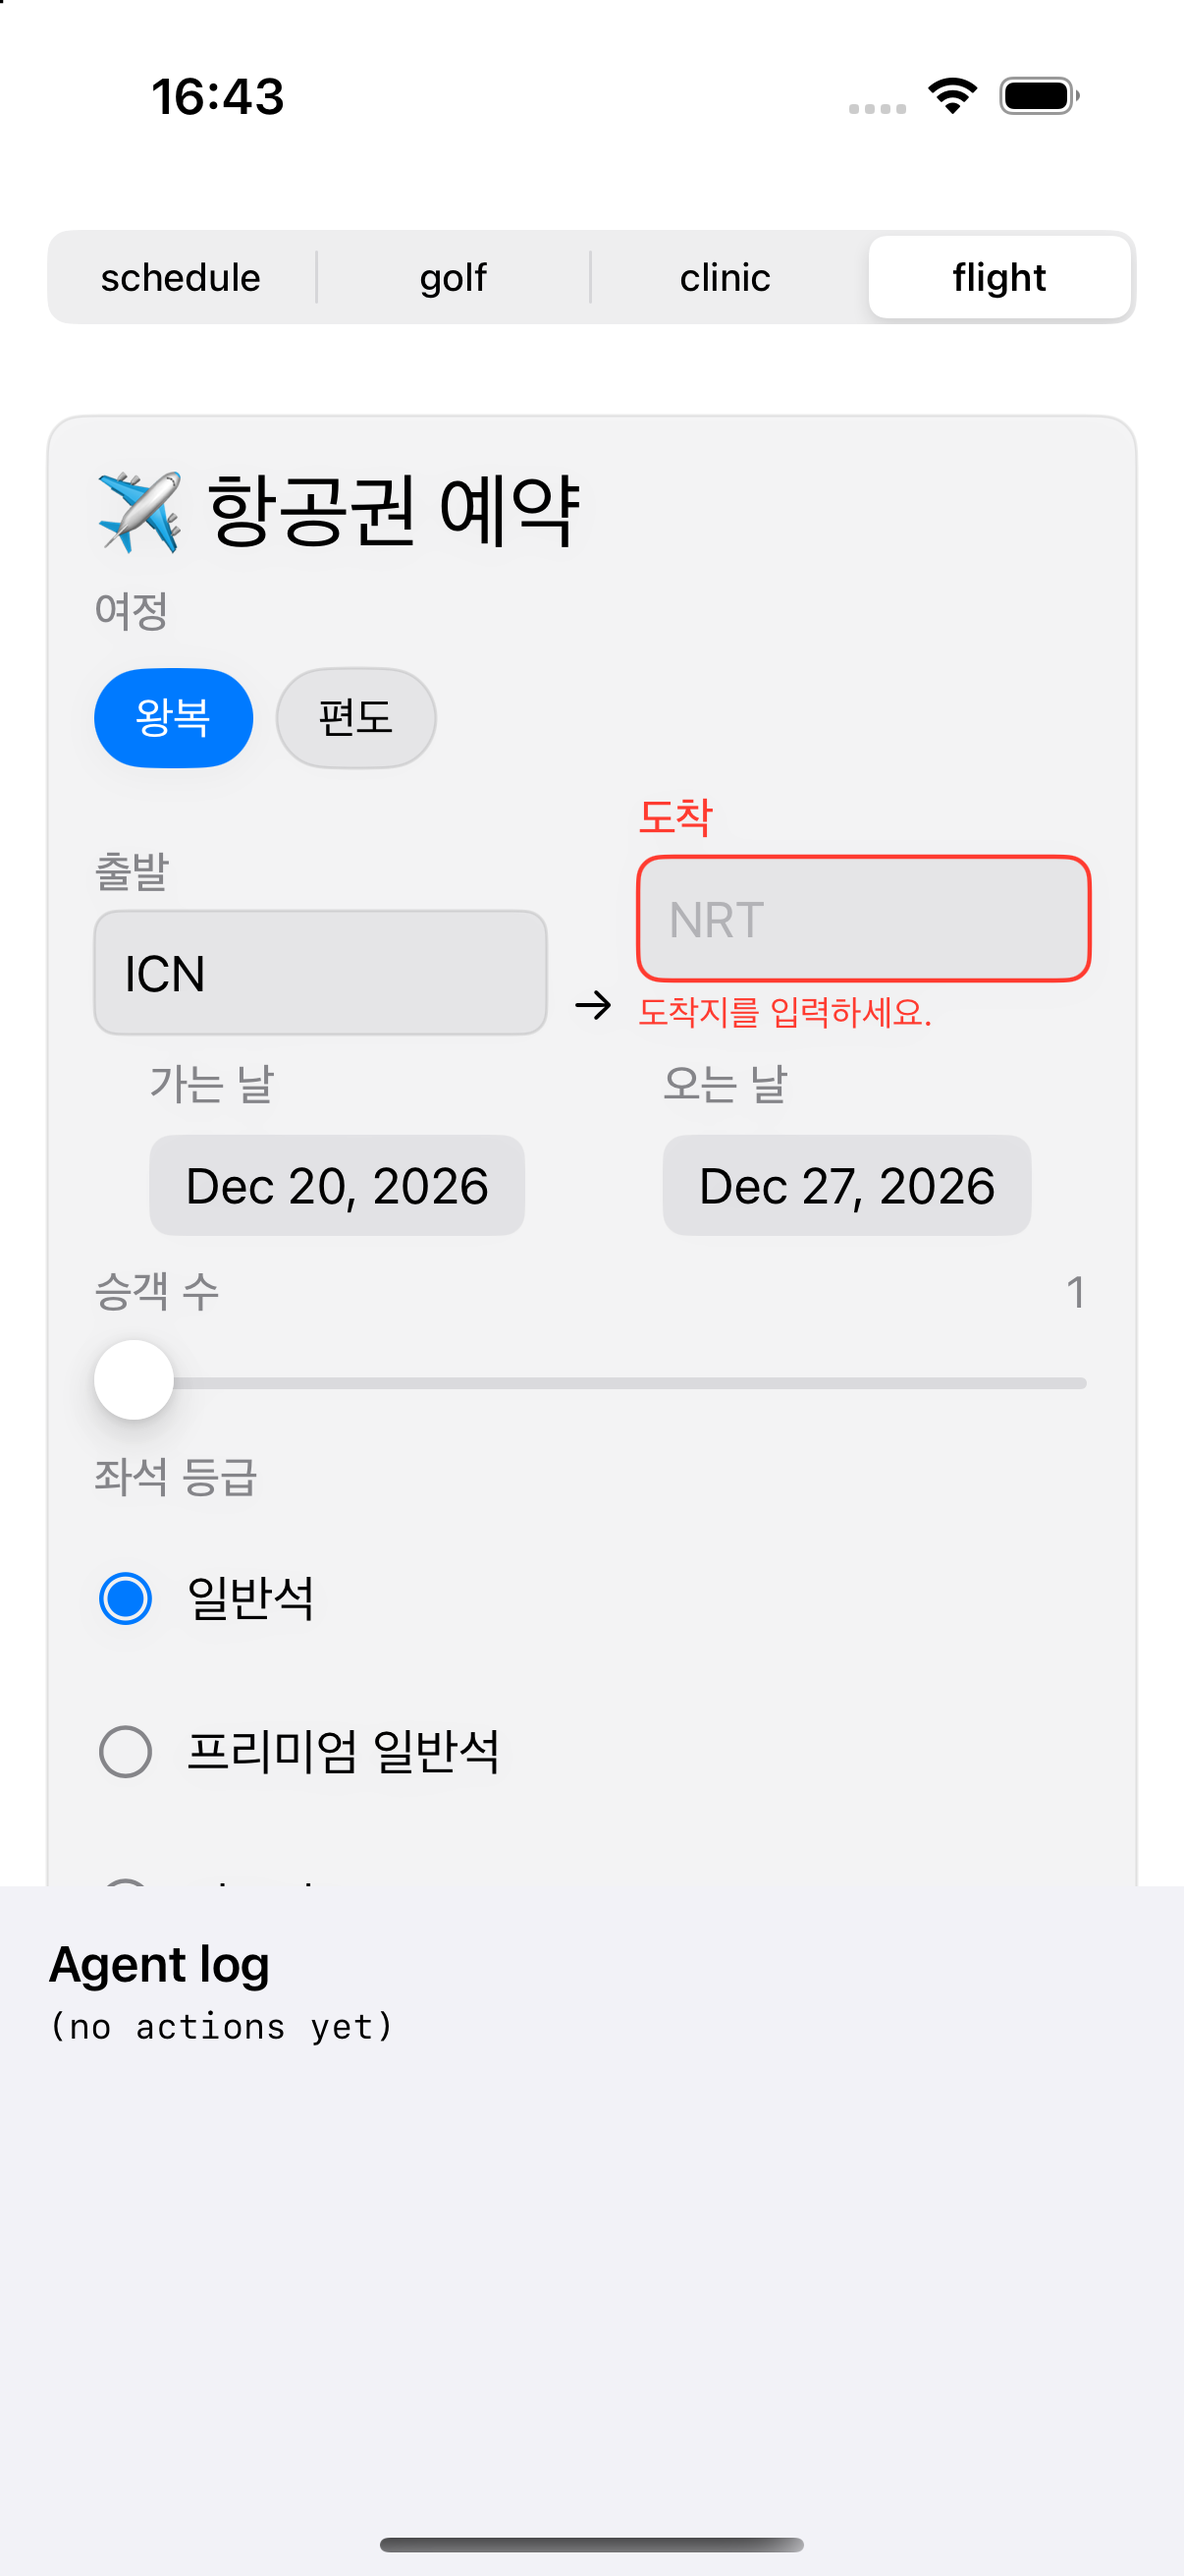
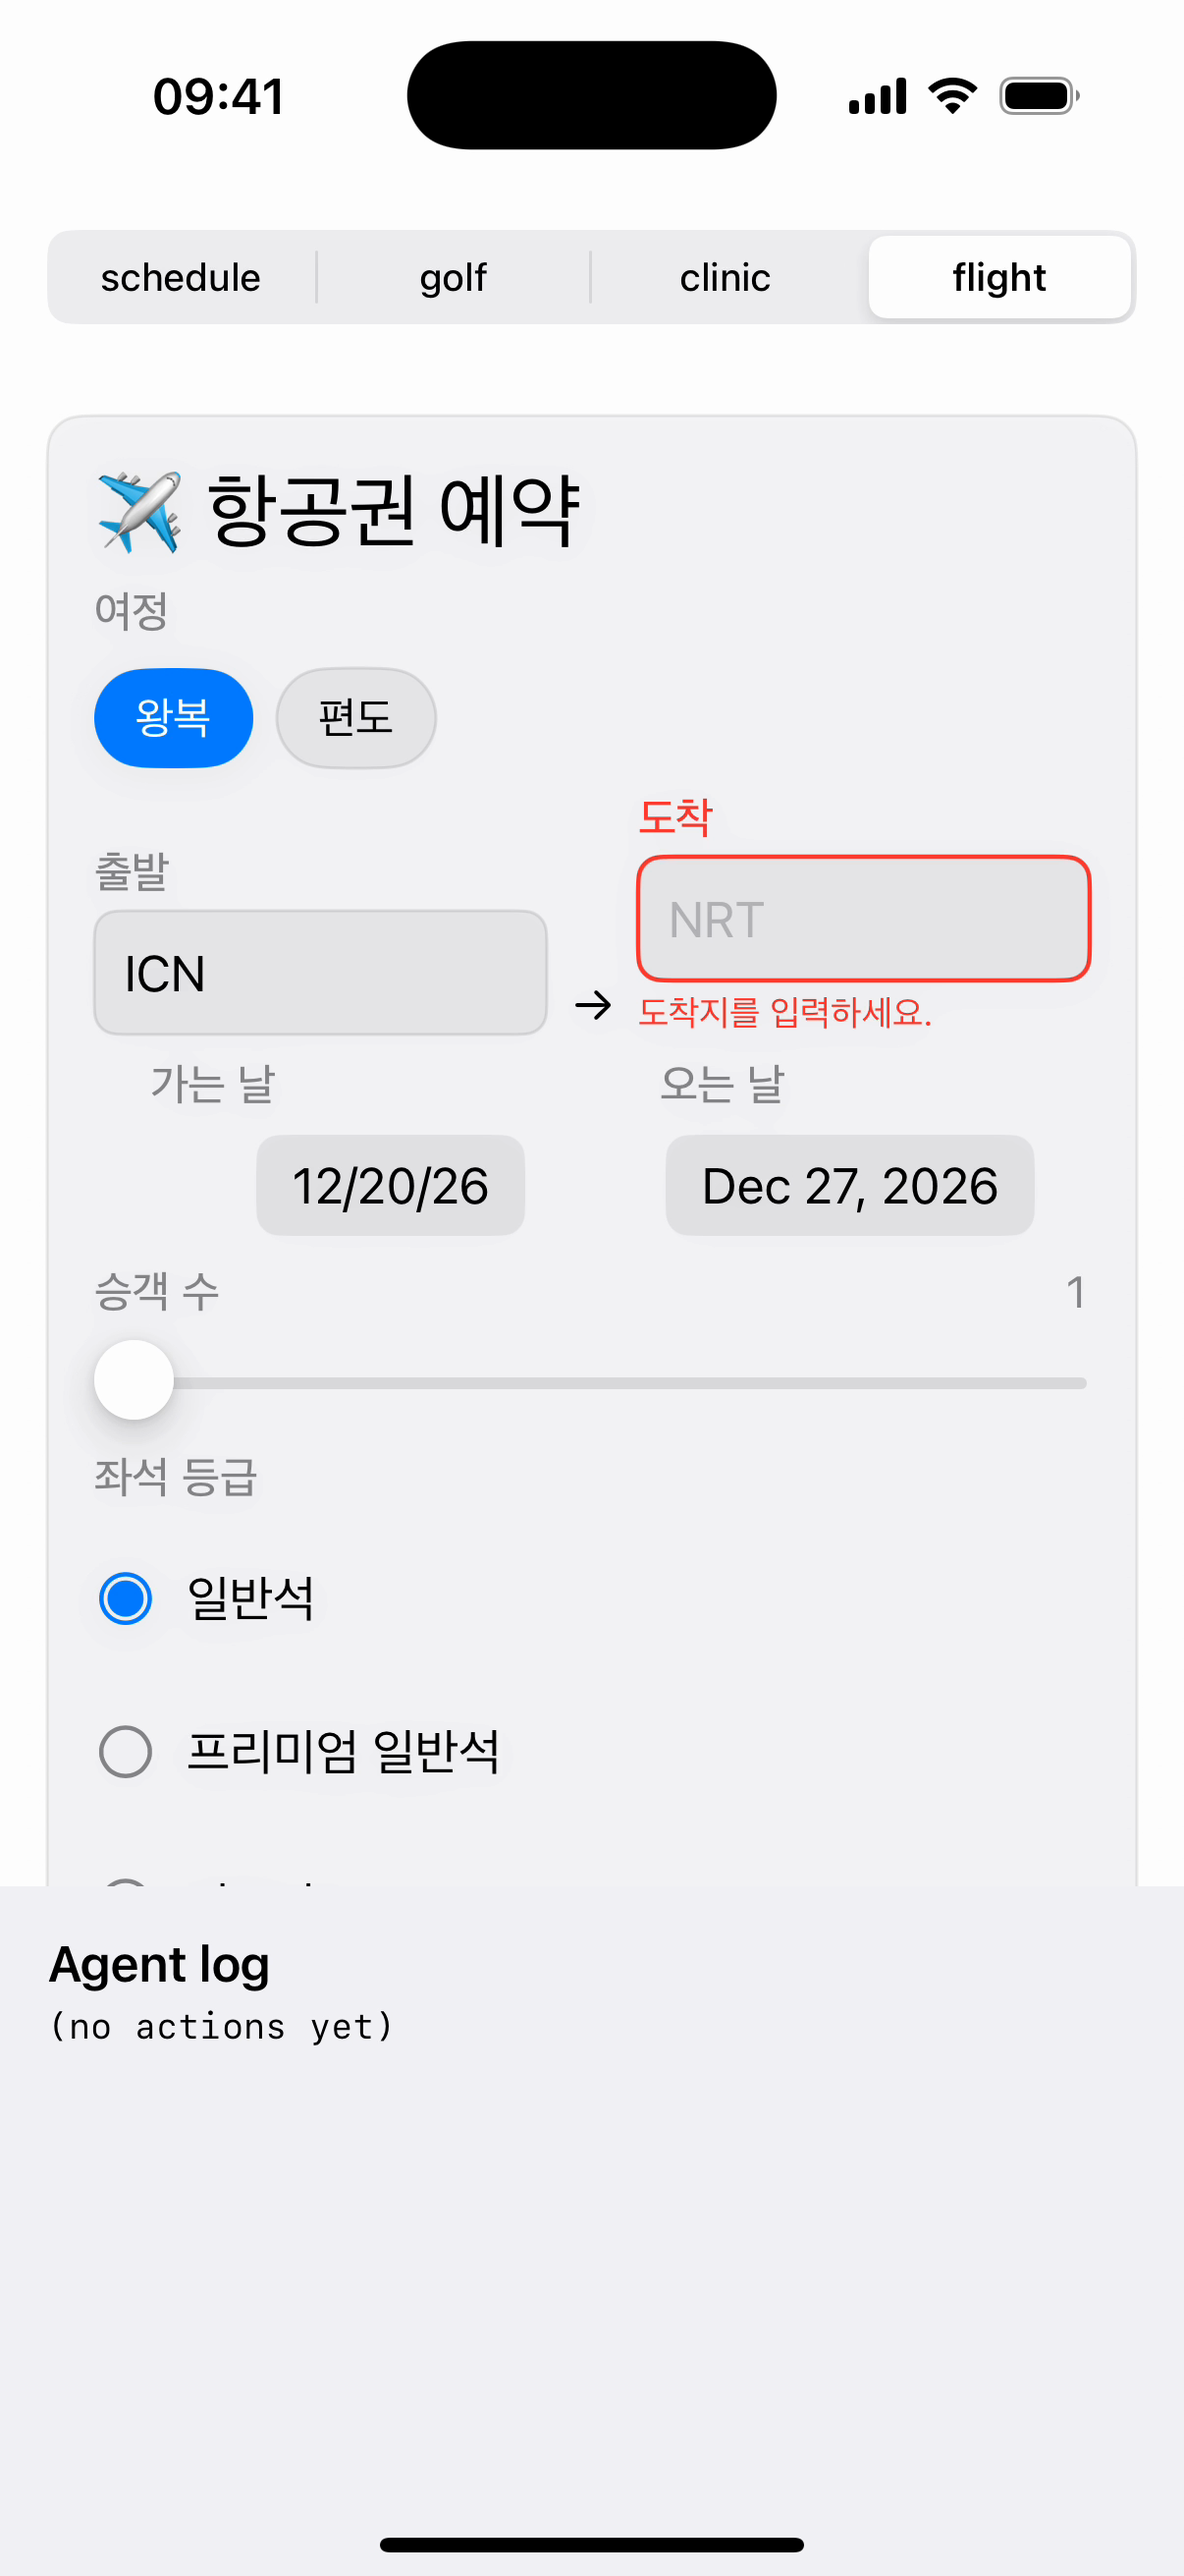
fix(ios): 스크린샷을 실사 녹화와 같은 조건(9:41)으로 교체
리뷰 M1. ./video/footage.sh --screenshots로 다시 만든다.

diff --git a/ios/UITests/FootageTests.swift b/ios/UITests/FootageTests.swift
@@ -4,12 +4,15 @@ import XCTest
 final class FootageTests: XCTestCase {
   func testTour() throws {
     let app = try launch("schedule")
-    select("golf", in: app)
-    select("clinic", in: app)
-    select("flight", in: app)
+    screenshotMarker("schedule")
+    for screen in ["golf", "clinic", "flight"] {
+      select(screen, in: app)
+      screenshotMarker(screen)
+    }
     select("golf", in: app)
     fillGolf(in: app)
     submitGolf(in: app)
+    screenshotMarker("golf_action")
     finish()
   }
 
@@ -143,6 +146,10 @@ final class FootageTests: XCTestCase {
     let submit = app.buttons[variant == nil ? "예약 신청" : "진료 예약하기"]
     XCTAssertTrue(submit.isHittable)
     finish()
+  }
+
+  private func screenshotMarker(_ name: String) {
+    XCTContext.runActivity(named: "Screenshot \(name)") { _ in }
   }
 
   private func finish() {
